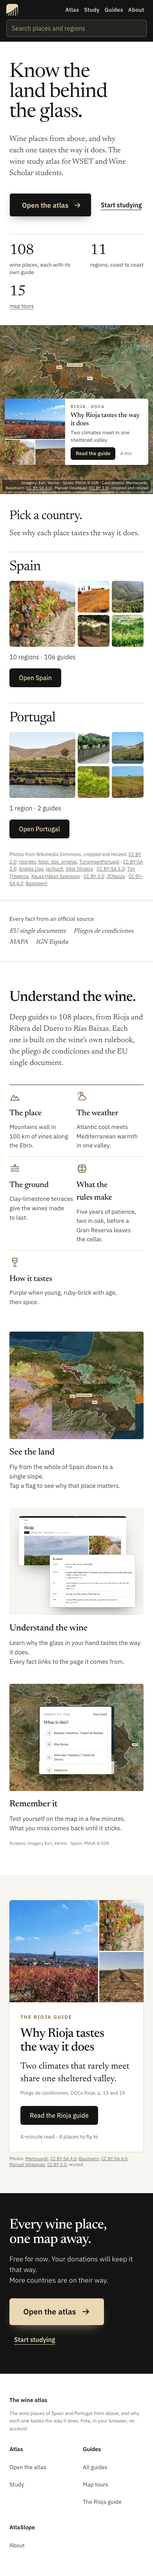
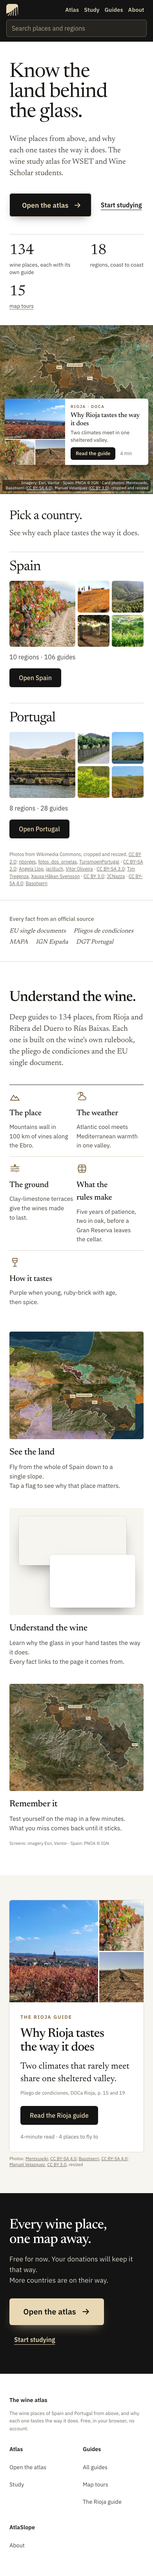
PR #214 review fixes: DGT CAOP credit on the map and Home sources, Photos soon tiles aligned (class clash with .soon), Lisboa labelled Vinho Regional, Portugal intro names Madeira, no unsupported Study claim, Dão lede without 'basin', fresh shots

Changed region(s): [[0.1538, 0.5938, 0.8, 0.625], [0.2462, 0.6562, 0.7692, 0.6875]]

diff --git a/src/home/guideCount.ts b/src/home/guideCount.ts
@@ -39,7 +39,7 @@ export const BAND_FEATURED = ['rioja', 'priorat', 'ribeira-sacra', 'txakoli-geta
 /** A guide's tile photo is `<id>-1` unless picked here: Rioja's -1 has a grey sky, -2 (Laguardia, autumn vines) is the stronger one (22 Oct 2026). */
 export const PHOTO_PICK: Record<string, string> = { rioja: 'rioja-2' };
 
-const KIND: Record<string, string> = { DO: 'DO', DOCa: 'DOCa', VP: 'Vino de Pago', VC: 'Vino de Calidad' };
+const KIND: Record<string, string> = { DO: 'DO', DOCa: 'DOCa', VP: 'Vino de Pago', VC: 'Vino de Calidad', DOC: 'DOC', VR: 'Vinho Regional' };
 const esc = (s: string) => s.replace(/&/g, '&amp;').replace(/</g, '&lt;').replace(/>/g, '&gt;').replace(/"/g, '&quot;');
 const json = <T>(f: string) => JSON.parse(readFileSync(f, 'utf8')) as T;
 
@@ -122,7 +122,7 @@ export const href = (g: GuideRow) => (COUNTRIES[g.country]?.paths ? `../${COUNTR
 
 /** The square photo; a map tour carries the champagne "Map tour" chip on it (the owner's one exception to "no text on photos"). */
 const tile = (g: GuideRow, photos: Record<string, PhotoCredit>, sizes: string): string =>
-  !g.photo ? '<span class="sqbox soon"><i>Photos soon</i></span>' : `<span class="sqbox">${photoImg(g.photo, photos, sizes, false, true)}${g.tour ? `<span class="chip">${GLYPH}<span>Map tour</span></span>` : ''}</span>`;
+  !g.photo ? '<span class="sqbox nophoto"><i>Photos soon</i></span>' : `<span class="sqbox">${photoImg(g.photo, photos, sizes, false, true)}${g.tour ? `<span class="chip">${GLYPH}<span>Map tour</span></span>` : ''}</span>`;
 
 /** The tour guides in band order: the four featured first, then the rest in list order. Only guides with a photo get a tile. */
 export const bandTours = (list: GuideList, country?: string): { featured: GuideRow[]; rest: GuideRow[]; count: number } => {

diff --git a/src/home/countries.css b/src/home/countries.css
@@ -2,8 +2,8 @@
    mocks/countries-structure.html). Squares reuse .sqbox from guides.css where the page loads it; the rules here stand alone. */
 .sqbox{position:relative;display:block;aspect-ratio:1/1;overflow:hidden;border-radius:6px;background:var(--bg2)}
 .sqbox img{display:block;width:100%;height:100%;object-fit:cover}
-.sqbox.soon{display:grid;place-items:center;text-align:center;background:#F5EFE0;border:1px solid #E6DAB8}
-.sqbox.soon i{font:normal .75rem/1.35 var(--sans);color:var(--foil-ink)}
+.sqbox.nophoto{display:grid;place-items:center;text-align:center;background:#F5EFE0;border:1px solid #E6DAB8} /* not .soon: home.css gives .soon a margin and padding (PR #214 shots, 22 Oct 2026) */
+.sqbox.nophoto i{font:normal .75rem/1.35 var(--sans);color:var(--foil-ink)}
 
 /* one lead square and four small ones */
 .mosaic{display:grid;grid-template-columns:repeat(4,minmax(0,1fr));gap:6px}

diff --git a/tests/unit/home.test.ts b/tests/unit/home.test.ts
@@ -164,7 +164,7 @@ describe('the Guides page and the country pages (option E round 3 and option A, 
       const none = guideRows({ publicDir: mkdtempSync(join(tmpdir(), 'public-')) });
       expect(none.rows.every((g) => g.photo === null)).toBe(true);
       const html = fillCountryPage(countryHtml, none, 'spain');
-      expect(count(html, /<span class="sqbox soon"><i>Photos soon<\/i><\/span>/g)).toBe(none.rows.filter((g) => g.country === 'spain').length);
+      expect(count(html, /<span class="sqbox nophoto"><i>Photos soon<\/i><\/span>/g)).toBe(none.rows.filter((g) => g.country === 'spain').length);
       for (const g of none.rows.filter((r) => r.country === 'spain')) expect(html).toContain(link(g.id));
     });
     it('do not fail the crop check: only photos that are shown need a crop', () => {

diff --git a/src/map/createMap.ts b/src/map/createMap.ts
@@ -79,7 +79,8 @@ export function createMap(container: HTMLElement, menu: MenuState, events: MapEv
     ...(restored ? { center: [restored.lng, restored.lat] as [number, number], zoom: restored.zoom, bearing: restored.bearing } : { bounds: countryConfig(undefined).bounds, fitBoundsOptions: { padding: 40 } }),
     pitch: restored?.pitch ?? START_PITCH,
     maxPitch: 70,
-    attributionControl: { compact: true },
+    // Portugal's outlines are built from DGT's CAOP 2025 (CC BY 4.0 asks for the credit; PR #214 review, 22 Oct 2026)
+    attributionControl: { compact: true, customAttribution: 'Portugal outlines: DGT, CAOP 2025' },
     antialias: true,
   });
   // The credits start folded to their small "i" on every screen (site visual review, 18 Oct 2026): MapLibre only folds them on narrow

diff --git a/src/home/countryPages.ts b/src/home/countryPages.ts
@@ -25,13 +25,13 @@ export const COUNTRY_PAGES: Record<string, CountryPage> = {
     study: { note: 'Test yourself on the regions and places of Spain.', link: true },
   },
   portugal: {
-    intro: 'From the green north to the Algarve.',
+    intro: 'From the green north to the Algarve and Madeira.',
     cardPhotos: ['douro-2', 'vinho-verde-3', 'douro-1', 'vinho-verde-1', 'douro-4'],
     blocks: [
       { title: 'Douro', keys: ['douro-2', 'douro-1', 'douro-6', 'douro-3', 'douro-4'] },
       { title: 'Vinho Verde', keys: ['vinho-verde-3', 'vinho-verde-1', 'vinho-verde-5', 'vinho-verde-8', 'vinho-verde-7'] },
     ],
-    study: { note: 'Not yet for Portugal.<br />Study follows the WSET course.', link: false },
+    study: { note: 'Not yet for Portugal.', link: false },
   },
 };
 

diff --git a/index.html b/index.html
@@ -96,7 +96,7 @@
       <section class="sources">
         <div class="wrap">
           <p>Every fact from an official source</p>
-          <ul><li>EU single documents</li><li>Pliegos de condiciones</li><li>MAPA</li><li>IGN España</li></ul>
+          <ul><li>EU single documents</li><li>Pliegos de condiciones</li><li>MAPA</li><li>IGN España</li><li>DGT Portugal</li></ul>
         </div>
       </section>
 

diff --git a/Review/reviews/2026-10-22-pr214-review.md b/Review/reviews/2026-10-22-pr214-review.md
@@ -1,0 +1,21 @@
+# PR #214 review (claude/guides-pt-1): design, copy, licence
+
+Verdict: **merge after fixes**. 0 blocker, 2 should-fix, 5 nit.
+Scope: screens, copy, six tile lines, Portugal licence rows. No code review, no tests run. Tags: [V] read or seen, [A] inferred.
+
+## Should-fix
+1. **No DGT credit anywhere users can see.** `data/SOURCES.md:175` sets the credit "DGT, CAOP2025" (CC BY 4.0 needs attribution). The grep of `src/`, `index.html` and `public/` finds no DGT or CAOP string. The only map credits are `src/strings.ts:81` ("Imagery: Esri, Vantor · Spain: PNOA © IGN"), `src/strings.ts:506-511` and `src/map/style.ts:12-13`. The Portuguese outlines (`countries/pt/areas.geojson`, built from CAOP) are drawn on the atlas map with no DGT line. Add "Portugal: DGT CAOP 2025 (CC BY 4.0)" to the map credit and the Home screens line. The EC eAmbrosia credit ("European Commission, eAmbrosia", SOURCES.md:117) is also not shown on pages [V].
+2. **The review screenshots do not show what the PR ships.** `Review/builds/country-pages-pt-*.png` and `country-pages-home-desktop.png` show Portugal as "1 region · 2 guides" (North only, 2 tiles). `country-pages-guides-desktop.png` shows "7 regions · 26 guides". So the Portugal page with 26 places, 7 regions, jump bar, region blocks and tiles for the new places was never seen in a shot. I could not check that layout (jump bar with 7 links on phone, tile photos for places that have none, tiles per region). Re-shoot after the final build. [V]
+
+## Nit
+3. Licence [A]: the CAOP OGC API copy having the same CC BY 4.0 as DGT's "dados-abertos" page (SOURCES.md:175), and the Madeira GeoPackage download page stating no licence (same line, "[A]"). Both are reasonable (same product, same publisher) but the owner should know they are [A]. No other Portugal row lacks a licence: eAmbrosia register is [A] "no own notice on the endpoint" (SOURCES.md:117, EU Decision 2011/833/EU applies); Natural Earth public domain; the EU spec sheets state reuse with source named; photos per entry. Nothing that needs the owner beyond acknowledging these [A]s.
+4. `index.html:69` "regions, coast to coast" now counts Portugal in the figure (11 today, more after this PR). Still true as a description of a span but it is no longer "Spain coast to coast" only; owner may want to reword. The "Understand the wine" lede ("from Rioja and Ribera del Duero to Rías Baixas") names only Spanish places while the count (108) includes Portugal. [A]
+5. `src/home/countryPages.ts`, portugal.intro "From the green north to the Algarve." skips Madeira, which this PR adds (a region and two places). Study note "Study follows the WSET course." states a reason for the gap; nothing in the repo says Portugal Study will follow WSET. Flag for the owner's rewrite (draft markers are in place). [A]
+6. Tile lines, region level (`content/tiles.json`): `pt-centre` lede "Dão sits in a granite basin sheltered by mountains": "basin" is not in the dao sheet (sheet: "granite soils in a region ringed by mountains"). `pt-setubal` lede "with little rain" comes from palmela only (setubal sheet says "mixed maritime climate"). `pt-madeira` title "Volcanic islands in the Atlantic": the sheets say basalt and terraces, not "Atlantic" or "islands" (islands are true per the area spec, 740.7 + 42.5 km2). `pt-alentejo` "3000" vs `pt-tejo` "2,800" number format differs. All minor. [V]
+7. Home "Pick a country" card shows the photo credit line directly under the two cards, in small print, fully visible; OK. Guides page: the map-tour band lays out 4 + 5 + 5 + 1 (last row has one lone tile), pre-existing band behaviour, not this PR. [V]
+
+## Checks that passed
+- Place tile lines (the six asked, plus bairrada, beira-interior, torres-vedras, lagos, tavira, dotejo, madeirense): every figure and claim is in the sheet's `why.text` (content/facts/pt-*.json), titles included: dao "Granite ringed by mountains", lisboa "An Atlantic strip north of the Tejo", colares "Vines in sand close to the Atlantic", alentejo "about 3000 sun hours", setubal "Sandy soils between the Tejo and Sado", madeira "Fortified on volcanic terraces" (sheet: basaltic soils, steep terraces, fortification). [V]
+- Copy rules: no "X, Y and Z" lists in the new strings, "AtlaSlope" for users, "Study" not "Quiz", no "Terroir guide", Home headline "Know the land behind the glass." unchanged [V]. Counts come from the data (`countryStats`), not hand-typed [V]. "Open the atlas" / "Open Portugal" fine.
+- Screens (home, guides, pt, desktop and phone, seen): square crops, 6px corners, no pills, one left edge, no text on photos except "Map tour" chips on Guides, one visible credit line per photo set on every page, no horizontal overflow on the Portugal phone page. [V]
+- Not checked: es pages, es phone, large text, reduced motion, iPad width, the other 22 place pages and their photos.
